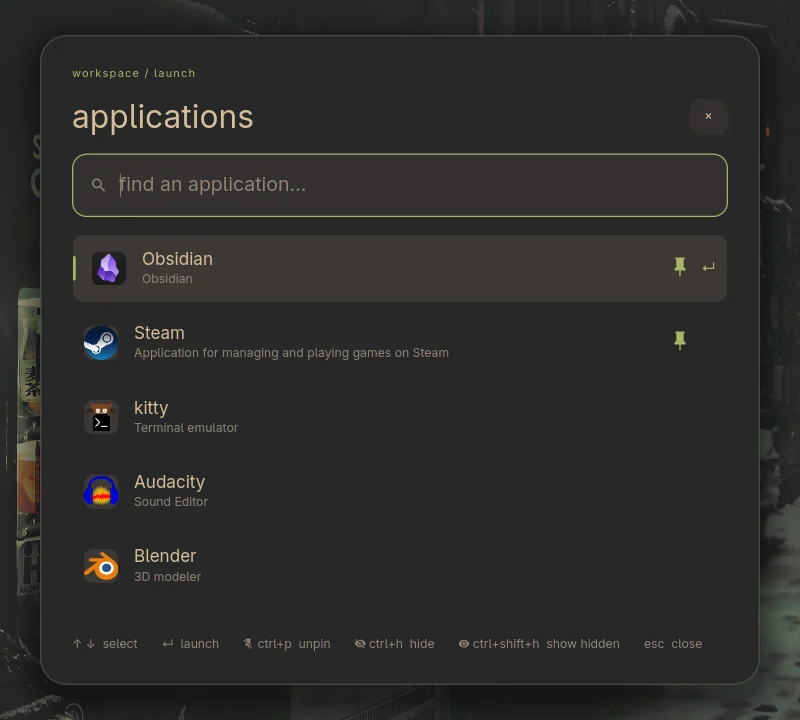
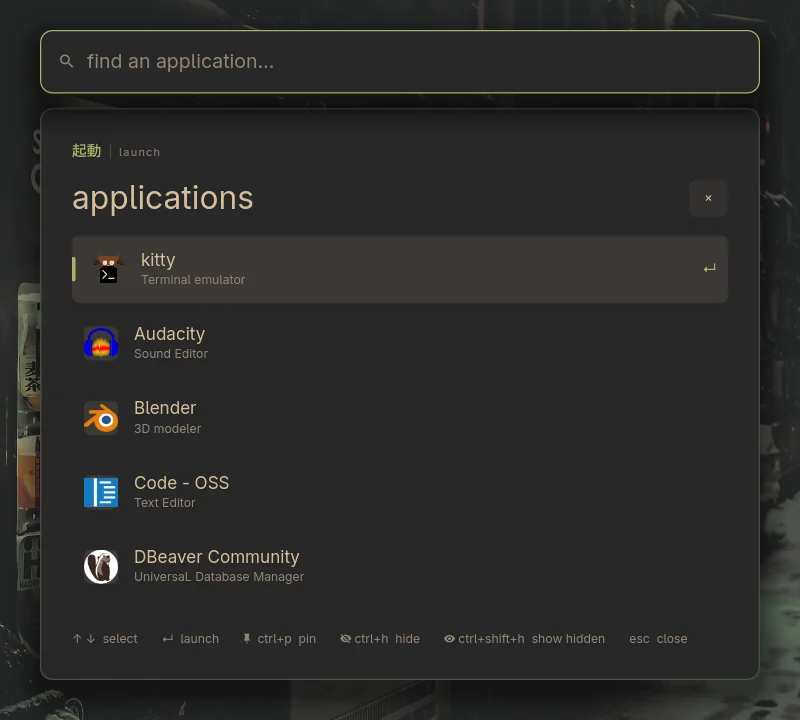
readme: new screenshots with the ryoku look and kanji decor, themes panel shot, corners key, decor font

diff --git a/README.md b/README.md
@@ -16,10 +16,10 @@ chuhshell is in beta. I built it for my own desktop and then moved every persona
 
 ## features
 
-- **bar**: workspaces, active window title, clock, the playing track, CPU and RAM rings, keyboard layout, Wi-Fi, VPN, Bluetooth, volume, battery and tray.
+- **bar**: one body split into groups by thin separators, with workspaces as kanji numerals, the active window title, clock, the playing track, CPU and RAM rings, keyboard layout, Wi-Fi, VPN, Bluetooth, volume, battery and tray.
 - **control center**: CPU, RAM and battery rings, network and Bluetooth tiles, switches for keep awake, do not disturb, the microphone and wallpaper colors, volume and brightness sliders, a media card, shortcuts to notifications, clipboard, screenshots, wallpapers, lock and the power menu.
 - **media**: any MPRIS player shows up in the bar and the control center with cover art, play, pause, next and previous.
-- **launcher**: Unicode search over desktop entries, pinned and hidden apps, terminal entries in your terminal, every app in its own `app.slice` scope.
+- **launcher**: a search box and a result list that slide down from the top of the screen, Unicode search over desktop entries, pinned and hidden apps, terminal entries in your terminal, every app in its own `app.slice` scope.
 - **notifications**: a full `org.freedesktop.Notifications` server with actions, images, markup, history and do not disturb.
 - **tray**: StatusNotifierItem host with dbusmenu submenus.
 - **Wi-Fi and Bluetooth**: iwd or NetworkManager, and BlueZ, with scan, connect, forget, a password agent and pairing prompts.
@@ -31,6 +31,7 @@ chuhshell is in beta. I built it for my own desktop and then moved every persona
 - **themes**: a panel with nine built-in palettes (including the shell's own ember, lavender and glacier), wallpaper colors and their matugen scheme, per-color overrides, and app color files rendered from your matugen templates for static palettes too.
 - **cursors**: a cursor theme picker in the themes panel that can recolor themes to the current palette.
 - **calendar**, **power menu** and a **system** panel with cores, temperatures, disk, load and top processes.
+- **look**: thin corners by default (`general.corners`) and Japanese words next to the panel titles and calendar weekdays as decoration. the kanji come from an embedded Noto Sans CJK JP subset, so no CJK font is needed.
 - **motion**: panels grow out of their bar chip, content and lists cascade in, clicks send a ripple from the pointer. the curves are the Material 3 expressive set.
 
 ## screenshots
@@ -39,6 +40,9 @@ chuhshell is in beta. I built it for my own desktop and then moved every persona
   <tr>
     <td><img src="docs/screenshots/launcher.webp" alt="launcher"></td>
     <td><img src="docs/screenshots/wallpapers.webp" alt="wallpapers"></td>
+  </tr>
+  <tr>
+    <td colspan="2"><img src="docs/screenshots/themes.webp" alt="themes"></td>
   </tr>
   <tr>
     <td><img src="docs/screenshots/calendar.webp" alt="calendar"></td>
@@ -129,6 +133,7 @@ chuhshell config path      # print where the shell looks
 ```toml
 [general]
 scale = 1.22                       # ui scale, 0.5 to 4
+corners = 0.35                     # corner rounding, 0 (4 px corners) to 1 (full radius)
 terminal = "foot"                  # default: $TERMINAL, xdg-terminal-exec, then kitty, foot, alacritty, wezterm, ghostty
 clock_format = "%a, %-d %b  ·  %H:%M"
 wallpapers_dir = "~/Pictures/Wallpapers"   # default: XDG_PICTURES_DIR/Wallpapers
@@ -249,6 +254,8 @@ CHUHSHELL_PREVIEW_DIR=/tmp/preview cargo test -p shell dump -- --ignored
 
 `CHUHSHELL_PREVIEW_PANELS=control,calendar` picks the panels and `CHUHSHELL_PREVIEW_UNTIL=200` stops the clock at 200 ms to catch a frame of the open animation.
 
+the kanji decor font is a subset of Noto Sans CJK JP in `crates/shell/assets/decor.otf`. after adding a word to `crates/shell/src/decor.rs`, rebuild the subset with `tools/decor-font` (needs `pyftsubset` from python-fonttools).
+
 `tools/netlab` builds a Wi-Fi lab out of `mac80211_hwsim` radios: hostapd serves `lab-open`, `lab-wpa2`, `lab-sae`, `lab-mixed`, `lab-hidden` and `lab-hidden-open` in one network namespace, and NetworkManager or iwd runs in another with its own system bus. your own Wi-Fi keeps working, and only the user who started the lab can reach its bus. it needs root, `hostapd`, `dnsmasq`, `networkmanager` and `iwd`.
 
 ```sh
@@ -264,3 +271,5 @@ to see the lab in the shell, start it with `CHUHSHELL_NETWORK_BUS=unix:path=/run
 ## license
 
 licensed under either of [Apache License 2.0](LICENSE-APACHE) or [MIT license](LICENSE-MIT) at your option.
+
+the embedded decor font is a subset of Noto Sans CJK JP under the SIL Open Font License 1.1, see [decor-font-license.txt](crates/shell/assets/decor-font-license.txt).
